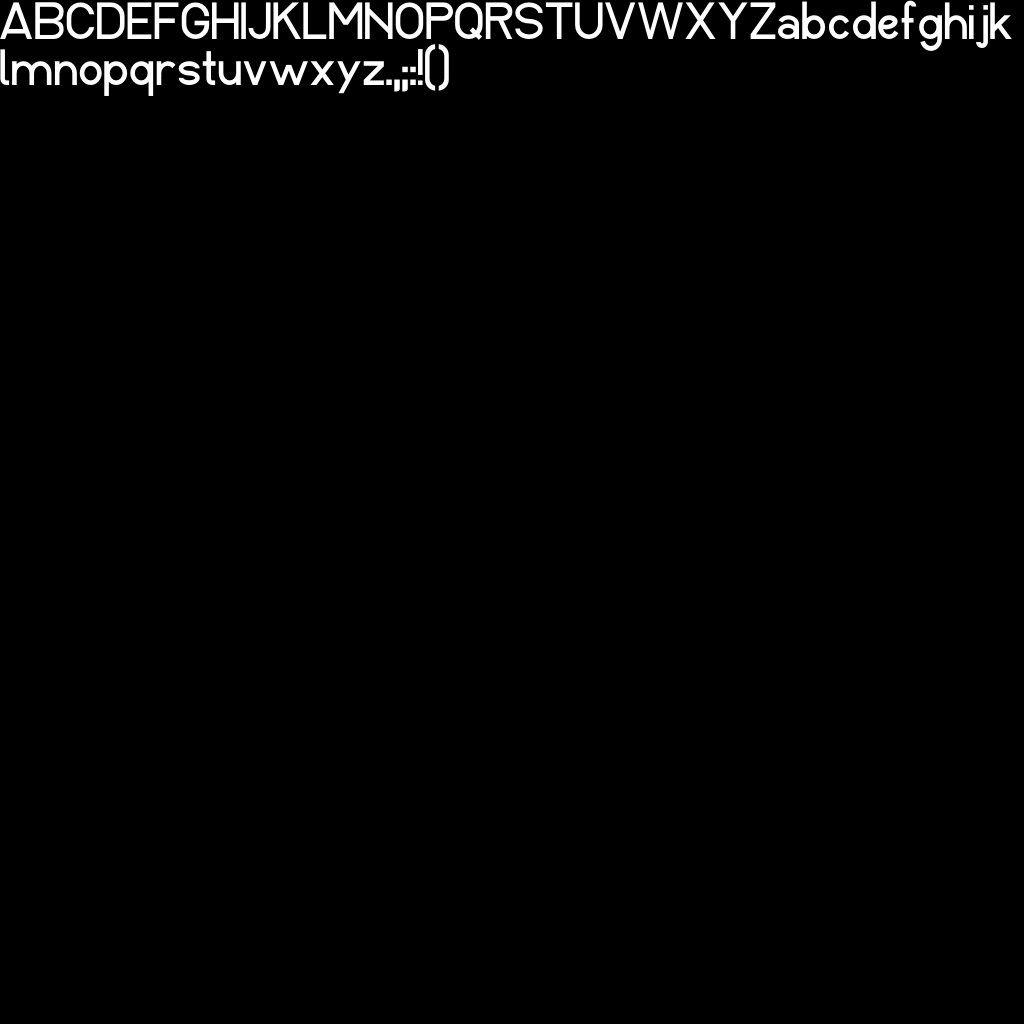
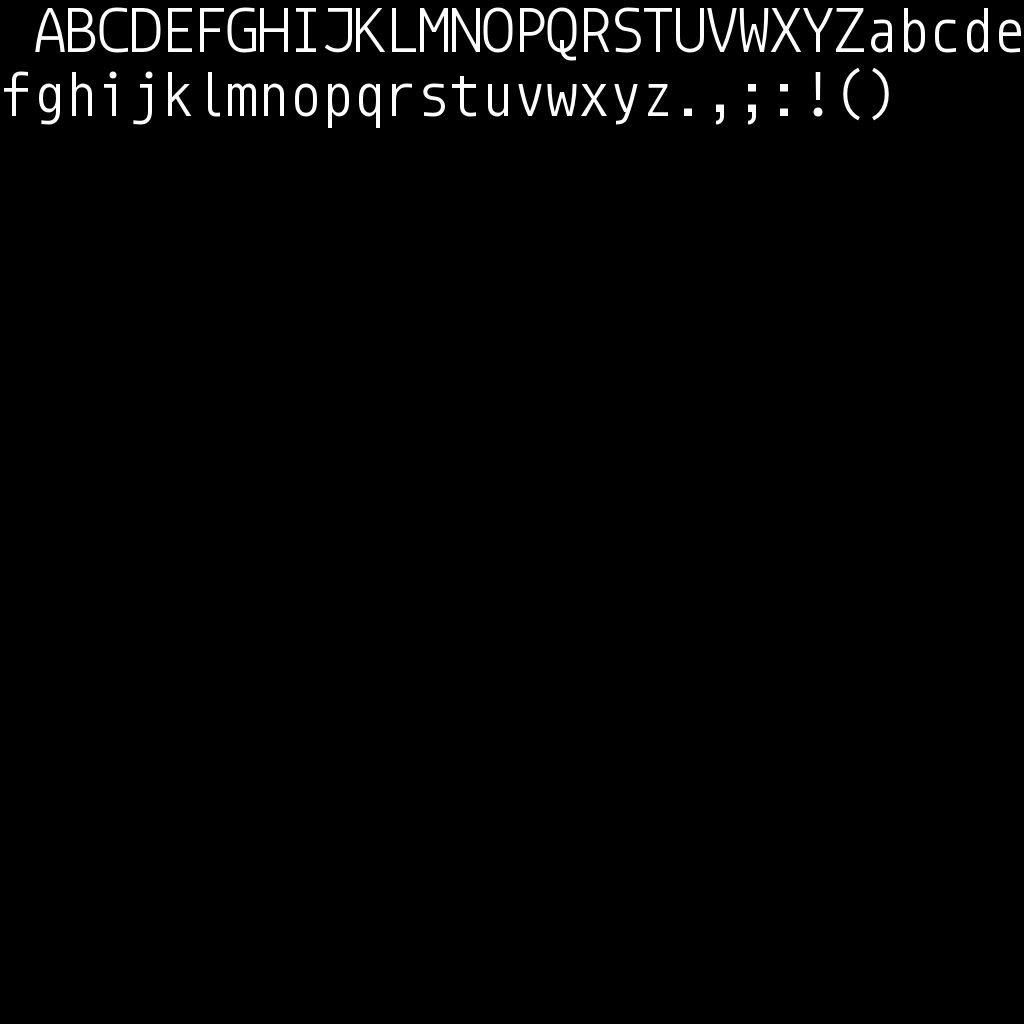
Fucking font rendering

Changed region(s): [[0.0, 0.0, 1.0, 0.125], [0.6875, 0.0938, 0.75, 0.125]]

diff --git a/engine/src/ui/atlas.rs b/engine/src/ui/atlas.rs
@@ -1,5 +1,5 @@
 use std::collections::HashMap;
-use ab_glyph::{Font, FontRef, Glyph, PxScale, point};
+use ab_glyph::{Font, FontRef, Glyph, Point, PxScale, ScaleFont, point};
 use bytemuck::{Pod, Zeroable};
 use glam::Vec2;
 use image::{GrayImage, Luma};
@@ -8,9 +8,9 @@ use slotmap::new_key_type;
 use crate::render::{mesh::Mesh, texture::TextureHandle};
 
 pub const PADDING: u32 = 2;
-pub const CHARSET: &str = "ABCDEFGHIJKLMNOPQRSTUVWXYZabcdefghijklmnopqrstuvwxyz.,;:!()";
+pub const CHARSET: &str = " ABCDEFGHIJKLMNOPQRSTUVWXYZabcdefghijklmnopqrstuvwxyz.,;:!()";
 // TODO: implement other glyphs in the font
-// pub const CHARSET: &str = "ABCDEFGHIJKLMNOPQRSTUVWXYZabcdefghijklmnopqrstuvwxyz.,;:!?()АБВГҐДЕЄЖЗИІЇЙКЛМНОПРСТУФХЦЧШЩЬЮЯабвгґдеєжзиіїйклмнопрстуфхцчшщьюя0123456789";
+// pub const CHARSET: &str = "ABCDEFGHIJKLMNOPQRSTUVWXYZabcdefghijklmnopqrstuvwxyz.,;:!?()АБВГҐДЕЄЖЗИІЇЙКЛМНОПРСТУФХЦЧШЩЬЮЯабвгґдеєжзиіїйклмнопрстуфхцчшщьюя0123456789 ";
 
 new_key_type! {
     pub struct FontHandle;
@@ -82,21 +82,12 @@ impl AtlasSet {
             log::error!("Invalid size {} for font atlas", font_size);
             return;
         };
+
         let scale = PxScale::from(font_size as f32);
+        let scaled_font = font.as_scaled(scale);
         
         let mut glyphs = vec![];
-        let mut caret = point(0.0, scale.x);
-        for c in CHARSET.chars() {
-            if let Some(glyph_id) = font.glyph_id(c).into() {
-                let glyph = Glyph {
-                    id: glyph_id,
-                    scale,
-                    position: caret,
-                };
-                caret.x += font.h_advance_unscaled(glyph.id) * scale.x;
-                glyphs.push((c, glyph));
-            }
-        }
+        layout(&scaled_font, point(0.0, 0.0), atlas_size as f32, CHARSET, &mut glyphs);
 
         let mut atlas = Atlas {
             image: GrayImage::new(atlas_size as u32, atlas_size as u32),
@@ -105,86 +96,53 @@ impl AtlasSet {
             glyphs: HashMap::new(),
         };
 
-        let mut cursor_x = 0;
-        let mut cursor_y = 0;
-        let mut row_height = 0;
+        for (c, line, g) in glyphs {
+            if let Some(og) = scaled_font.outline_glyph(g.clone()) {
+                let bounds = og.px_bounds();
+                    
+                og.draw(|x, y, v| {
+                    let x = x as f32 + bounds.min.x;
+                    let y = y as f32 + bounds.min.y;
+                    if x >= 0.0 && (x as usize) < atlas_size && y >= 0.0 && (y as usize) < atlas_size {
+                        atlas.image[(x as u32, y as u32)] = Luma([(v * 255.0) as u8]);
+                    }
+                });
 
-        for (c, glyph) in glyphs {
-            let id = glyph.id;
-            let outlined = font.outline_glyph(glyph).unwrap();
-            let bounds = outlined.px_bounds();
-            let w = bounds.width().ceil() as u32 + PADDING;
-            let h = bounds.height().ceil() as u32 + PADDING;
+                let uv_min = Vec2::new(
+                    bounds.min.x / atlas_size as f32, 
+                    bounds.min.y / atlas_size as f32,
+                );
 
-            if cursor_x + w > atlas_size as u32 {
-                cursor_x = 0;
-                cursor_y += row_height;
-                row_height = 0;
+                let uv_max = Vec2::new(
+                    (bounds.min.x + bounds.width()) / atlas_size as f32, 
+                    (bounds.min.y + bounds.height()) / atlas_size as f32,
+                );
+
+                let v_advance = scaled_font.height() + scaled_font.line_gap();
+                let offset = scaled_font.ascent() + line as f32 * v_advance;
+
+                atlas.glyphs.insert(c, GlyphInfo {
+                    uv_min,
+                    uv_max,
+                    size: Vec2::new(bounds.width(), bounds.height()),
+                    advance: scaled_font.h_advance(g.id),
+                    bearing: Vec2::new(bounds.min.x, bounds.min.y),
+                    offset,
+                });
+            } else {
+                if c == ' ' {
+                    atlas.glyphs.insert(c, GlyphInfo {
+                        uv_min: Vec2::ZERO,
+                        uv_max: Vec2::ZERO,
+                        size: Vec2::ZERO,
+                        advance: scaled_font.h_advance(g.id),
+                        bearing: Vec2::ZERO,
+                        offset: 0.0,
+                    });
+                } else {
+                    log::warn!("Failed to outline glyph `{c}`");
+                }
             }
-
-            let uv_min = Vec2::new(
-                cursor_x as f32 / atlas_size as f32, 
-                cursor_y as f32 / atlas_size as f32,
-            );
-
-            let uv_max = Vec2::new(
-                (cursor_x + w) as f32 / atlas_size as f32, 
-                (cursor_y + h) as f32 / atlas_size as f32,
-            );
-
-            atlas.glyphs.insert(c, GlyphInfo {
-                uv_min,
-                uv_max,
-                size: Vec2::new(w as f32, h as f32),
-                bearing: Vec2::new(bounds.min.x, bounds.min.y),
-                advance: font.h_advance_unscaled(id) / 1000.0 * scale.x,
-            });
-
-            // TODO: calculate this somehow for different fonts
-            const OFFSET: u32 = 25;
- 
-            outlined.draw(|x, y, v| {
-                let px = cursor_x + x;
-                let py = cursor_y + (bounds.min.y as i32 + y as i32) as u32 - OFFSET;
-                atlas.image[(px, py)] = Luma([(v * 255.0) as u8]);
-            });
-
-            // let min_x = cursor_x;
-            // let min_y = cursor_y;
-            // let max_x = cursor_x + w - 1;
-            // let max_y = cursor_y + h - 1;
-
-            // for x in min_x..=max_x {
-            //     if min_y < atlas.size {
-            //         atlas.image[(x, min_y)] = Luma([0]);
-            //         if x % 2 == 0 {
-            //             atlas.image[(x, min_y)] = Luma([255]);
-            //         }
-            //     }
-            //     if max_y < atlas.size {
-            //         atlas.image[(x, max_y)] = Luma([0]);
-            //         if x % 2 == 0 {
-            //             atlas.image[(x, max_y)] = Luma([255]);
-            //         }
-            //     }
-            // }
-            // for y in min_y..=max_y {
-            //     if min_x < atlas.size {
-            //         atlas.image[(min_x, y)] = Luma([0]);
-            //         if y % 2 == 0 {
-            //             atlas.image[(min_x, y)] = Luma([255]);
-            //         }
-            //     }
-            //     if max_x < atlas.size {
-            //         atlas.image[(max_x, y)] = Luma([0]);
-            //         if y % 2 == 0 {
-            //             atlas.image[(max_x, y)] = Luma([255]);
-            //         }
-            //     }
-            // }
-
-            cursor_x += w;
-            row_height = row_height.max(h);
         }
 
         self.map.insert(font_size, atlas);
@@ -195,12 +153,56 @@ impl AtlasSet {
     }
 }
 
+pub fn layout<F, SF>(
+    font: SF,
+    position: Point,
+    atlas_size: f32,
+    text: &str,
+    target: &mut Vec<(char, u32, Glyph)>,
+) where
+    F: Font,
+    SF: ScaleFont<F>,
+{
+    let mut line = 0;
+    let v_advance = font.height() + font.line_gap();
+    let mut caret = position + point(0.0, font.ascent());
+    let mut last_glyph: Option<Glyph> = None;
+    for c in text.chars() {
+        if c.is_control() {
+            if c == '\n' {
+                caret = point(position.x, caret.y + v_advance);
+                last_glyph = None;
+            }
+            continue;
+        }
+        let mut glyph = font.scaled_glyph(c);
+        if let Some(previous) = last_glyph.take() {
+            caret.x += font.kern(previous.id, glyph.id);
+        }
+        glyph.position = caret;
+
+        last_glyph = Some(glyph.clone());
+        caret.x += font.h_advance(glyph.id);
+
+        if !c.is_whitespace() && caret.x > position.x + atlas_size {
+            caret = point(position.x, caret.y + v_advance);
+            glyph.position = caret;
+            last_glyph = None;
+            caret.x += font.h_advance(glyph.id);
+            line += 1;
+        }
+        
+        target.push((c, line, glyph));
+    }
+}
+
 pub struct GlyphInfo {
     pub uv_min: Vec2,
     pub uv_max: Vec2,
     pub size: Vec2,
-    pub bearing: Vec2,
     pub advance: f32,
+    pub bearing: Vec2,
+    pub offset: f32,
 }
 
 pub struct Atlas {
@@ -224,16 +226,21 @@ impl Atlas {
     }
 
     pub fn generate_mesh(&self, text: &str, start: Vec2) -> Mesh<GlyphVertex> {
-        let mut vertices = vec![];
-        let mut indices = vec![];
+        let mut vertices = Vec::with_capacity(text.len() * 4);
+        let mut indices = Vec::with_capacity(text.len() * 6);
         let mut cursor_x = start[0];
         let cursor_y = start[1];
         let mut idx_offset = 0;
 
         for c in text.chars() {
             if let Some(glyph) = self.glyphs.get(&c) {
+                if glyph.size == Vec2::ZERO {
+                    cursor_x += glyph.advance;
+                    continue;
+                }
+
                 let x0 = cursor_x;
-                let y0 = cursor_y;
+                let y0 = cursor_y - ((glyph.bearing.y) + glyph.size[1]) + glyph.offset;
                 let x1 = x0 + glyph.size[0];
                 let y1 = y0 + glyph.size[1];
 

diff --git a/src/main.rs b/src/main.rs
@@ -99,6 +99,8 @@ impl Game for KvantumaGame {
 
         atlas.image().save("atlas.png")?;
 
+        // panic!();
+
         let text1 = "the quick brown fox jumps over the lazy dog!";
         let mut mesh1 = atlas.generate_mesh(text1, Vec2::ZERO);
         let transform1 = Transform {
@@ -107,19 +109,19 @@ impl Game for KvantumaGame {
             rotation: Quat::IDENTITY,
         };
 
-        let text2 = "THE QUICK BROWN FOX JUMPS OVER THE LAZY DOG!";
-        let mut mesh2 = atlas.generate_mesh(text2, Vec2::ZERO);
-        let transform2 = Transform {
-            translation: Vec3::new(-0.7, 0.5, 0.0),
-            scale: Vec3::ONE,
-            rotation: Quat::IDENTITY,
-        };
+        // let text2 = "THE QUICK BROWN FOX JUMPS OVER THE LAZY DOG!";
+        // let mut mesh2 = atlas.generate_mesh(text2, Vec2::ZERO);
+        // let transform2 = Transform {
+        //     translation: Vec3::new(-0.7, 0.5, 0.0),
+        //     scale: Vec3::ONE,
+        //     rotation: Quat::IDENTITY,
+        // };
 
         mesh1.update(render_device, &mut self.registry);
-        mesh2.update(render_device, &mut self.registry);
+        // mesh2.update(render_device, &mut self.registry);
 
         world.spawn((mesh1, text_material.clone(), transform1));
-        world.spawn((mesh2, text_material, transform2));
+        // world.spawn((mesh2, text_material, transform2));
         world.spawn((mdl, material, transform_monkey));
 
         world.spawn((true, 0));
@@ -151,11 +153,11 @@ impl Game for KvantumaGame {
                     }
                 );
                 
-                render_pass.draw(render_device, &self.registry, DrawDescriptor::<_, _> {
-                    drawable: Some(mesh),
-                    instance_data: Some(tr),
-                    material,
-                });
+                // render_pass.draw(render_device, &self.registry, DrawDescriptor::<_, _> {
+                //     drawable: Some(mesh),
+                //     instance_data: Some(tr),
+                //     material,
+                // });
             }
         }
 
@@ -192,8 +194,8 @@ fn main() -> anyhow::Result<()> {
 
     App::new(
         WindowDescriptor {
-            width: 1280,
-            height: 720,
+            width: 1024,
+            height: 1024,
             title: "KVΛNTUMA",
             mode: WindowMode::Windowed,
         }, 

diff --git a/engine/src/render/mesh.rs b/engine/src/render/mesh.rs
@@ -126,13 +126,13 @@ impl<V: Pod> Drawable for Mesh<V> {
             .fill_exact(render_device, 0, &self.vertices)
             .unwrap();
 
-        let Some(ib) = self.index_buffer else { unreachable!() };
-        
-        registry
-            .get_buffer(ib) 
-            .expect("Cannot call update() on Mesh")
-            .fill_exact(render_device, 0, &self.indices)
-            .unwrap();
+        if let Some(ib) = self.index_buffer {
+            registry
+                .get_buffer(ib) 
+                .expect("Cannot call update() on Mesh")
+                .fill_exact(render_device, 0, &self.indices)
+                .unwrap();
+        }
     }
 
     fn vertex_buffer(&self) -> BufferHandle {
